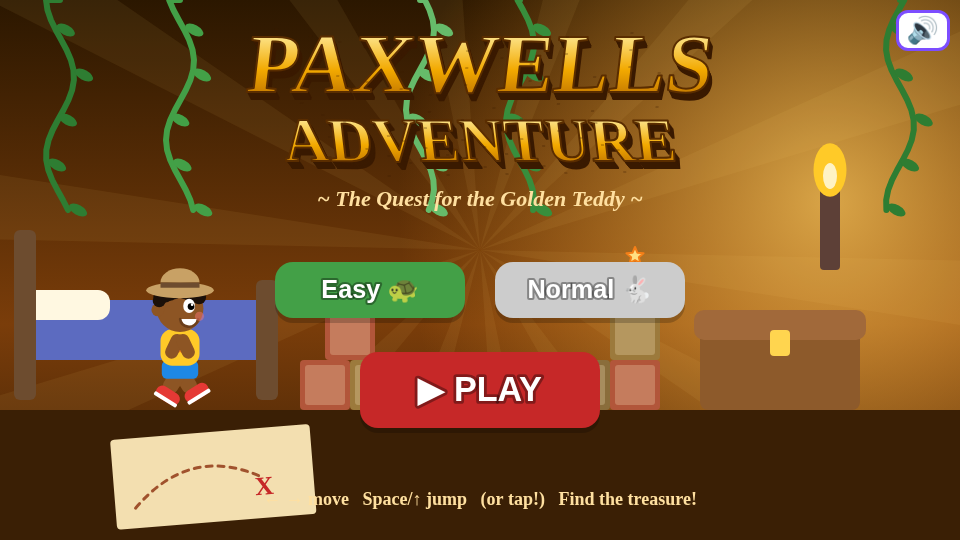
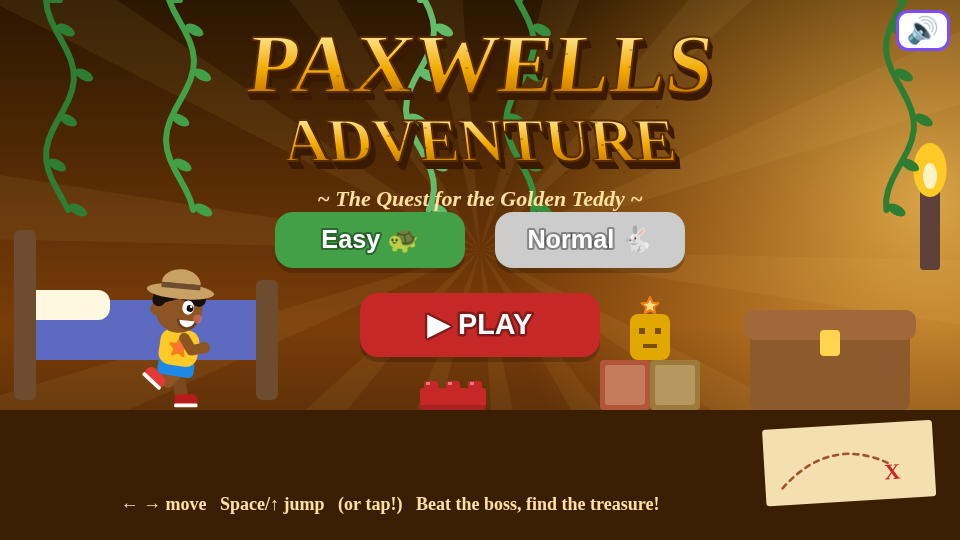
Natural run cycle, harder levels, 4 boss fights, title layout fix

diff --git a/index.html b/index.html
@@ -30,39 +30,75 @@ function cpos(e){const r=C.getBoundingClientRect(),p=e.touches?e.touches[0]:e;re
 C.addEventListener('mousedown',e=>{const[x,y]=cpos(e);clickAt(x,y)});C.addEventListener('touchstart',e=>{e.preventDefault();const[x,y]=cpos(e);clickAt(x,y)},{passive:false});
 // ---- state
 let state='title',diff='easy',P,obs,items,parts,camX,score,dist,lives,level,inv,t=0,best=+localStorage.lj_best||0,msg=0,spawnX;
-const D={easy:{lives:5,spd:.7,gap:1.4},normal:{lives:3,spd:1,gap:1}};
-function clickAt(x,y){ac();startMusic();if(state=='title'){if(y>260&&y<320){if(x<W/2)diff='easy';else diff='normal';sfx.collect();return}if(y>350&&y<430&&x>W/2-120&&x<W/2+120)start()}else if(state=='over'){if(y>330&&y<420)start()}else if(state=='play')jumpPress(true)}
-function start(){state='play';P={x:120,y:G-70,vx:0,vy:0,w:40,h:70,on:true,face:1,anim:0,coy:0,buf:0};obs=[];items=[];parts=[];camX=0;score=0;dist=0;lives=D[diff].lives;level=1;inv=60;spawnX=700;msg=120;endX=120+150*40;tre=null;treT=0;placeT();}
-let endX=0,tre=null,treT=0;
-function placeT(){const k=level%2?'bear':'jar';for(let i=0;i<2;i++)obs.push({k:'block',x:endX,y:G-50*(i+1),w:50,h:50,c:BC[(level+i)%6],l:'AB'[i],solid:1,ped:1});tre={x:endX+25,y:G-100,k};}
+const D={easy:{lives:5,spd:.9,gap:1.05,boss:.8,hp:3},normal:{lives:3,spd:1.3,gap:.8,boss:1.05,hp:4}};
+function clickAt(x,y){ac();startMusic();if(state=='title'){if(y>212&&y<268){if(x<W/2)diff='easy';else diff='normal';sfx.collect();return}if(y>290&&y<360&&x>W/2-120&&x<W/2+120)start()}else if(state=='over'){if(y>330&&y<420)start()}else if(state=='play')jumpPress(true)}
+function start(){state='play';P={x:120,y:G-70,vx:0,vy:0,w:40,h:70,on:true,face:1,anim:0,coy:0,buf:0};obs=[];items=[];parts=[];camX=0;score=0;dist=0;lives=D[diff].lives;level=1;inv=60;spawnX=700;msg=120;endX=120+150*40;tre=null;treT=0;shots=[];B=null;placeT();}
+let endX=0,tre=null,treT=0,arenaX=0,cage=true,B=null,shots=[],bossMsg=0,shake=0;
+const BOSS=[{typ:'car',name:'Turbo Racer',w:130,h:62},{typ:'bear',name:'Big Bertie Bear',w:120,h:130},{typ:'army',name:'Sergeant Greenboots',w:64,h:118},{typ:'hero',name:'Captain Cape-Tastic',w:70,h:100}];
+function poof(x,y){for(let i=0;i<8;i++)parts.push({x,y,vx:Math.random()*6-3,vy:-Math.random()*4,l:25,c:'#fff',s:'✦'})}
+function placeT(){arenaX=endX-760;cage=true;B=null;const k=level%2?'bear':'jar';for(let i=0;i<2;i++)obs.push({k:'block',x:endX,y:G-50*(i+1),w:50,h:50,c:BC[(level+i)%6],l:'AB'[i],solid:1,ped:1});tre={x:endX+25,y:G-100,k};}
 function jumpPress(tap){if(state!='play')return;P.buf=8;if(tap)P.tap=1}
 const BC=['#e53935','#1e88e5','#fdd835','#43a047','#fb8c00','#8e24aa'];
-function spawn(){const d=D[diff],lv=Math.min(level,6);while(spawnX<camX+W+300){if(spawnX>endX-350&&spawnX<endX+250){spawnX=endX+250;continue}const r=Math.random();let x=spawnX;
- if(r<.35){obs.push({k:'lego',x,y:G-22,w:44+(Math.random()*2|0)*22,h:22,c:BC[Math.random()*6|0]})}
- else if(r<.6){const n=1+(Math.random()*Math.min(lv,3)|0);for(let i=0;i<n;i++)obs.push({k:'block',x,y:G-50*(i+1),w:50,h:50,c:BC[(Math.random()*6)|0],l:'ABCDEFGHIJ'[Math.random()*10|0],solid:1});
-   items.push({x:x+25,y:G-50*n-50,got:0})}
- else if(r<.75&&level>=2){obs.push({k:Math.random()<.5?'car':'ball',x:x+200,y:G-30,w:50,h:30,vx:-(1.2+lv*.3)*d.spd,c:BC[Math.random()*6|0],rot:0})}
+function spawn(){const d=D[diff],lv=Math.min(level,6);while(spawnX<camX+W+300){if(cage&&spawnX>arenaX-320)return;if(spawnX<endX+250&&spawnX>arenaX-320)spawnX=endX+250;const r=Math.random();let x=spawnX,ext=0;
+ if(r<.26){obs.push({k:'lego',x,y:G-22,w:44+(Math.random()*2|0)*22,h:22,c:BC[Math.random()*6|0]});if(Math.random()<.45){obs.push({k:'lego',x:x+150,y:G-22,w:44,h:22,c:BC[Math.random()*6|0]});ext=150}}
+ else if(r<.46){const n=1+(Math.random()*Math.min(lv+1,3)|0);for(let i=0;i<n;i++)obs.push({k:'block',x,y:G-50*(i+1),w:50,h:50,c:BC[(Math.random()*6)|0],l:'ABCDEFGHIJ'[Math.random()*10|0],solid:1});
+   items.push({x:x+25,y:G-50*n-50,got:0});if(Math.random()<.5){obs.push({k:'lego',x:x+105,y:G-22,w:44,h:22,c:BC[Math.random()*6|0]});ext=110}}
+ else if(r<.62){obs.push({k:'car',x:x+260,y:G-30,w:50,h:30,vx:-(2+lv*.35)*d.spd*(.8+Math.random()*.4),c:BC[Math.random()*6|0],rot:0})}
+ else if(r<.74){obs.push({k:'ball',x:x+220,y:G-140,w:46,h:44,vx:-(1.4+lv*.25)*d.spd,vy:0,bounce:1,c:BC[0],rot:0})}
+ else if(r<.86){obs.push({k:'mouse',x,x0:x,y:G-28,w:46,h:28,vx:-(1.3+lv*.2)*d.spd,patrol:1,rot:0})}
  else{for(let i=0;i<3;i++)items.push({x:x+i*45,y:G-110-Math.sin(i/2*Math.PI)*40,got:0})}
- spawnX+= (260+Math.random()*220)*d.gap - Math.min(lv,6)*10}}
+ spawnX+= ext+(210+Math.random()*190)*d.gap - lv*8}}
+function startBoss(){const bd=BOSS[(level-1)%4],hp=D[diff].hp+(level>4?1:0);B=Object.assign({},bd,{x:arenaX+640,y:G-bd.h,hp,max:hp,st:'idle',tm:80,vx:0,vy:0,dir:-1,ko:0,cnt:0,fl:0});if(B.typ=='hero')B.y=110;bossMsg=160;obs=obs.filter(o=>!o.vx);sfx.level()}
+function updBoss(){const b=B;if(b.dead)return;if(b.fl>0)b.fl--;
+ if(b.ko){b.ko++;b.y+=b.vy;b.vy+=.35;b.x+=b.vx;if(b.ko%4==0)parts.push({x:b.x+b.w/2,y:b.y+20,vx:Math.random()*6-3,vy:-Math.random()*5,l:30,c:'#ffeb3b',s:'★'});if(b.ko>110){b.dead=1;cage=false;sfx.treasure();for(let i=0;i<20;i++)parts.push({x:tre.x,y:tre.y-30,vx:Math.random()*8-4,vy:-Math.random()*6,l:40,c:'#ffd600',s:'✦'})}return}
+ const f=(1+(b.max-b.hp)/b.max*.9)*D[diff].boss,px=P.x+20,cx=b.x+b.w/2;b.tm-=f;
+ if(b.st=='idle'){b.dir=px<cx?-1:1;
+  if(b.typ=='army')b.x+=b.dir*1.3*f;
+  if(b.typ=='hero'){b.y+=(110+Math.sin(t/15)*25-b.y)*.1;b.x+=(px-cx)*.012*f}
+  if(b.tm<=0){b.st='tele';b.tm=55}}
+ else if(b.st=='tele'){if(b.typ=='car'&&t%4==0)parts.push({x:b.dir<0?b.x+b.w:b.x,y:G-15,vx:-b.dir*2,vy:-1,l:20,c:'#9e9e9e',s:'●'});
+  if(b.tm<=0){b.st='atk';b.cnt=0;
+   if(b.typ=='car'){b.vx=b.dir*8.5*f;sfx.ouch()}
+   if(b.typ=='bear'){b.vy=-15;b.vx=(px-cx)/58}
+   if(b.typ=='army'){b.tm=70;b.fired=0}
+   if(b.typ=='hero'){const tt=40/f;b.vx=(px-cx)/tt;b.vy=(G-b.h-b.y)/tt}}}
+ else if(b.st=='atk'){
+  if(b.typ=='car'){b.x+=b.vx;if(b.x<arenaX+5||b.x+b.w>arenaX+W-5){b.x=Math.max(arenaX+5,Math.min(b.x,arenaX+W-5-b.w));b.st='tired';b.tm=120;shake=15;sfx.ouch()}}
+  if(b.typ=='bear'){b.vy+=.6;b.x+=b.vx;b.y+=b.vy;if(b.y+b.h>=G&&b.vy>0){b.y=G-b.h;shake=12;sfx.ouch();for(const s of[-1,1])shots.push({k:'wave',x:cx+s*60,y:G-14,vx:s*4.5*f,vy:0,r:14});for(let i=0;i<2;i++)shots.push({k:'puff',x:cx,y:b.y,vx:(i?1:-1)*(2+Math.random()*2)*f,vy:-9,r:12});b.cnt++;if(b.cnt<(b.hp<=b.max/2?3:2)){b.vy=-14;b.vx=(px-cx)/56}else{b.st='tired';b.tm=120}}}
+  if(b.typ=='army'){const fire=[60,45,30];if(b.fired<3&&b.tm<fire[b.fired]){b.fired++;shots.push({k:'pellet',x:b.dir>0?b.x+b.w:b.x,y:b.y+48,vx:b.dir*6*f,vy:0,r:8});sfx.jump();if(b.fired==2)for(let i=0;i<2;i++)shots.push({k:'para',x:px+(i?90:-90)+Math.random()*40,y:-20,vx:0,vy:1.7*f,r:14})}if(b.tm<=0){b.st='tired';b.tm=110}}
+  if(b.typ=='hero'){b.x+=b.vx;b.y+=b.vy;if(b.y+b.h>=G){b.y=G-b.h;b.st='tired';b.tm=110;shake=10;for(const s of[-1,1])shots.push({k:'wave',x:cx+s*40,y:G-14,vx:s*3.5*f,vy:0,r:12})}}}
+ else if(b.st=='tired'){if(b.tm<=0){b.st=b.typ=='hero'?'up':'idle';b.tm=70}}
+ else if(b.st=='up'){b.y-=4;if(b.y<=110){b.st='idle';b.tm=60}}
+ b.x=Math.max(arenaX,Math.min(b.x,arenaX+W-b.w));
+ const hb={x:b.x+6,y:b.y+4,w:b.w-12,h:b.h-4};
+ if(hit(P,hb,4)){const top=P.vy>0&&P.y+P.h<b.y+32;
+  if(top&&b.st=='tired'){b.hp--;b.fl=20;P.vy=-12;score+=25;sfx.collect();tone(200,.25,'square',.12,90);poof(px,b.y);inv=Math.max(inv,30);b.st=b.typ=='hero'?'up':'idle';b.tm=70;if(b.typ=='car'){b.vx=0}
+   if(b.hp<=0){b.ko=1;b.vy=-10;b.vx=(cx<arenaX+W/2?-1:1)*2;score+=100;sfx.level();shots=[]}}
+  else if(top){P.vy=-10;tone(500,.1,'sine',.1,300)}
+  else if(b.st!='tired'){hurt();P.x+=px<cx?-50:50}}}
+function updShots(){for(const s of shots){s.x+=s.vx;s.y+=s.vy;if(s.k=='puff'){s.vy+=.35;if(s.y>G-s.r)s.dead=1}if(s.k=='para'){s.x+=Math.sin(t/12+s.y)*.6;if(s.y>G-s.r)s.dead=1}
+  if(s.x<camX-40||s.x>camX+W+40)s.dead=1;if(!s.dead&&hit(P,{x:s.x-s.r,y:s.y-s.r,w:s.r*2,h:s.r*2},5)){s.dead=1;hurt()}}shots=shots.filter(s=>!s.dead)}
 function hit(a,b,s=8){return a.x+s<b.x+b.w-s&&a.x+a.w-s>b.x+s&&a.y+s<b.y+b.h&&a.y+a.h>b.y+s}
-function hurt(){if(inv>0)return;lives--;inv=120;sfx.ouch();P.vy=-8;for(let i=0;i<10;i++)parts.push({x:P.x+20,y:P.y+30,vx:Math.random()*6-3,vy:-Math.random()*5,l:30,c:'#ff5252',s:'!'});if(lives<=0){state='over';sfx.over();best=Math.max(best,score);localStorage.lj_best=best}}
+function hurt(){if(inv>0)return;lives--;inv=100;sfx.ouch();P.vy=-8;for(let i=0;i<10;i++)parts.push({x:P.x+20,y:P.y+30,vx:Math.random()*6-3,vy:-Math.random()*5,l:30,c:'#ff5252',s:'!'});if(lives<=0){state='over';sfx.over();best=Math.max(best,score);localStorage.lj_best=best}}
 function update(){t++;if(state!='play')return;const d=D[diff];
  const L=K.ArrowLeft||K.KeyA||TL,R=K.ArrowRight||K.KeyD||TR;const spd=4.2;
  P.vx=R?spd:L?-spd*.9:P.vx*.8;if(R)P.face=1;if(L)P.face=-1;
  // gentle auto-walk via tap on mobile is not forced; kids can just hold right
- P.vy+=.55;if(P.vy>0&&!(K.Space||K.ArrowUp||jumpHeld))P.vy+=.15;P.coy=P.on?8:P.coy-1;
- if(P.buf>0&&P.coy>0){P.vy=-12.5;P.on=false;P.coy=0;P.buf=0;sfx.jump();if(P.tap&&!R&&!L)P.vx=0}P.buf--;P.tap=0;
+ P.vy+=.55;if(P.vy>0&&!(K.Space||K.ArrowUp||jumpHeld))P.vy+=.15;P.coy=P.on?6:P.coy-1;const vy0=P.vy,was=P.on;P.sq=(P.sq||0)*.8;
+ if(P.buf>0&&P.coy>0){P.vy=-12.5;P.on=false;P.coy=0;P.buf=0;sfx.jump();P.sq=-.16;if(P.tap&&!R&&!L)P.vx=0}P.buf--;P.tap=0;
  P.x+=P.vx;P.x=Math.max(camX,P.x);
  for(const o of obs)if(o.solid&&hit(P,o,2)){if(P.vx>0)P.x=o.x-P.w+2;else if(P.vx<0)P.x=o.x+o.w-2}
  P.y+=P.vy;P.on=false;if(P.y+P.h>=G){P.y=G-P.h;P.vy=0;P.on=true}
  for(const o of obs)if(o.solid&&P.x+P.w-4>o.x&&P.x+4<o.x+o.w){if(P.vy>=0&&P.y+P.h>o.y&&P.y+P.h-P.vy<=o.y+12){P.y=o.y-P.h;P.vy=0;P.on=true}else if(P.vy<0&&P.y<o.y+o.h&&P.y>o.y+o.h-16){P.y=o.y+o.h;P.vy=0}}
- if(P.on&&Math.abs(P.vx)>.5)P.anim+=.25;
- camX=Math.max(camX,P.x-300);dist=Math.max(dist,(P.x-120)/40|0);
- if(treT>0){treT--;if(t%3==0)parts.push({x:tre.x+Math.random()*80-40,y:tre.y-Math.random()*60,vx:Math.random()*4-2,vy:-Math.random()*3,l:40,c:'#ffd600',s:'✦'});if(treT==0){level++;msg=120;endX=tre.x+150*40;placeT()}}
- else if(tre&&Math.abs(P.x+20-tre.x)<55&&Math.abs(P.y+35-(tre.y-25))<110){treT=150;score+=50;sfx.treasure();obs=obs.filter(o=>!(o.vx&&o.x>P.x))}
+ if(!was&&P.on&&vy0>5)P.sq=.2;if(P.on&&Math.abs(P.vx)>.5)P.anim+=.3;
+ if(B&&!B.dead){camX+=(arenaX-camX)*.12;P.x=Math.min(P.x,arenaX+W-P.w);P.x=Math.max(P.x,arenaX)}else camX=Math.max(camX,P.x-300);
+ if(cage&&!B&&P.x>arenaX+60)startBoss();if(B)updBoss();updShots();if(shake>0)shake--;if(bossMsg>0)bossMsg--;dist=Math.max(dist,(P.x-120)/40|0);
+ if(treT>0){treT--;if(t%3==0)parts.push({x:tre.x+Math.random()*80-40,y:tre.y-Math.random()*60,vx:Math.random()*4-2,vy:-Math.random()*3,l:40,c:'#ffd600',s:'✦'});if(treT==0){level++;msg=120;endX=tre.x+150*40;placeT();spawnX=Math.max(spawnX,camX+W)}}
+ else if(tre&&!cage&&Math.abs(P.x+20-tre.x)<55&&Math.abs(P.y+35-(tre.y-25))<110){treT=150;score+=50;sfx.treasure();obs=obs.filter(o=>!(o.vx&&o.x>P.x))}
  spawn();
- for(const o of obs){if(o.vx){o.x+=o.vx;o.rot+=o.vx/15}
-  if(!o.solid&&hit(P,o,o.k=='lego'?10:8)){if(P.vy>0&&P.y+P.h<o.y+18&&o.k!='lego'){P.vy=-9;score+=5;sfx.jump()}else hurt()}}
+ for(const o of obs){if(o.vx){o.x+=o.vx;o.rot+=o.vx/15;if(o.patrol&&Math.abs(o.x-o.x0)>90){o.vx*=-1;o.x+=o.vx*2}if(o.bounce){o.vy+=.45;o.y+=o.vy;if(o.y+o.h>=G){o.y=G-o.h;o.vy=-10.5}}}
+  if(!o.solid&&!o.dead&&hit(P,o,o.k=='lego'?8:6)){if(P.vy>0&&P.y+P.h<o.y+20&&o.k!='lego'){P.vy=-9;score+=5;sfx.jump();if(o.k=='mouse'){o.dead=1;o.vx=0;poof(o.x+20,o.y)}}else hurt()}}
+ obs=obs.filter(o=>!o.dead);
  for(const it of items)if(!it.got&&Math.abs(P.x+20-it.x)<36&&Math.abs(P.y+35-it.y)<46){it.got=1;score+=10;sfx.collect();for(let i=0;i<6;i++)parts.push({x:it.x,y:it.y,vx:Math.random()*4-2,vy:-Math.random()*4,l:25,c:'#ffd600',s:'★'})}
  obs=obs.filter(o=>o.x>camX-200||o.ped);items=items.filter(i=>i.x>camX-100&&!i.got);
  for(const p of parts){p.x+=p.vx;p.y+=p.vy;p.vy+=.2;p.l--}parts=parts.filter(p=>p.l>0);
@@ -86,18 +122,40 @@ function drawTre(){if(!tre)return;const x=tre.x-camX,y=tre.y;if(x<-100||x>W+100)
  if(tre.k=='bear'){const g='#f2b705',d='#a86b00';X.fillStyle=g;for(const[a,b,r]of[[-13,-50,8],[13,-50,8],[0,-38,16],[0,-14,18],[-17,-22,7],[17,-22,7],[-10,0,8],[10,0,8]]){X.beginPath();X.arc(x+a,y+b+bob,r,0,7);X.fill()}X.fillStyle=d;X.beginPath();X.arc(x-5,y-41+bob,2,0,7);X.arc(x+5,y-41+bob,2,0,7);X.fill();X.beginPath();X.arc(x,y-33+bob,3,0,7);X.fill();star(x,y-14+bob,6,'#fff59d')}
  else{rr(x-20,y-50+bob,40,48,10,'rgba(200,240,255,.8)');rr(x-16,y-60+bob,32,12,4,'#e57373');for(const[a,b]of[[-8,-30],[8,-20],[-6,-12],[6,-38]]){X.beginPath();X.arc(x+a,y+b+bob,8,0,7);X.fillStyle='#d4a056';X.fill();X.fillStyle='#5d3a1a';X.fillRect(x+a-2,y+b+bob-2,3,3)}}
  X.globalAlpha=.5+.5*Math.sin(t/8);star(x+28,y-55,6,'#fff');X.globalAlpha=1}
-function hero(x,y,face,anim,air,scale=1){X.save();X.translate(x+20,y+70);X.scale(face*scale,scale);
- const sw=air?0:Math.sin(anim)*0.6,skin='#8d5524',dk='#6b3e1a';
- // legs
- const leg=(a,c)=>{X.save();X.translate(0,-26);X.rotate(a);rr(-6,0,12,18,4,skin);rr(-8,16,20,10,5,c);rr(-8,23,20,3,1,'#fff');X.restore()};
- if(air){leg(-.5,'#e53935');leg(.7,'#e53935')}else{leg(sw,'#e53935');leg(-sw,'#e53935')}
- // shorts
- rr(-14,-34,28,14,4,'#1e88e5');
- // body shirt
- rr(-15,-58,30,28,9,'#ffca28');star(0,-45,7,'#ff7043');
- // arms
- const arm=a=>{X.save();X.translate(0,-54);X.rotate(a);rr(-5,0,10,20,5,skin);X.restore()};
- if(air){arm(-2.6);arm(2.4)}else{arm(-sw*.8);arm(sw*.8)}
+function drawBoss(){const b=B;if(!b||b.dead)return;const x=b.x-camX+(b.st=='tele'?Math.random()*4-2:0),y=b.y;X.save();X.translate(x+b.w/2,y+b.h/2);if(b.ko)X.rotate(b.ko/6);X.scale(b.dir>0?-1:1,1);if(b.fl&&(b.fl>>1)%2)X.globalAlpha=.4;const w=b.w,h=b.h,L=-w/2,T=-h/2;
+ const eyes=(ex,ey,d=12)=>{for(const o of[0,d]){X.fillStyle='#fff';X.beginPath();X.arc(ex+o,ey,6,0,7);X.fill();X.fillStyle='#000';X.beginPath();X.arc(ex+o-2,ey+1,3,0,7);X.fill()}X.strokeStyle='#000';X.lineWidth=3;X.beginPath();X.moveTo(ex-6,ey-10);X.lineTo(ex+4,ey-6);X.moveTo(ex+d+6,ey-10);X.lineTo(ex+d-4,ey-6);X.stroke()};
+ if(b.typ=='car'){rr(L,T+18,w,36,14,'#e53935');rr(L+30,T,60,26,10,'#c62828');rr(L+36,T+4,48,16,6,'#bbdefb');rr(w/2-14,T-6,12,24,3,'#212121');rr(w/2-24,T-8,30,6,2,'#212121');X.fillStyle='#fff';X.beginPath();X.arc(10,T+36,11,0,7);X.fill();X.fillStyle='#000';X.font='bold 14px sans-serif';X.textAlign='center';X.textBaseline='middle';X.fillText('7',10,T+37);eyes(L+42,T+12,20);
+  for(const wx of[L+24,w/2-24]){X.save();X.translate(wx,h/2-8);X.rotate(b.x/12);X.beginPath();X.arc(0,0,15,0,7);X.fillStyle='#212121';X.fill();X.fillStyle='#bdbdbd';X.fillRect(-3,-11,6,22);X.restore()}}
+ if(b.typ=='bear'){const c='#a1662f',lc='#e6b98a';X.fillStyle=c;for(const[a,q,r]of[[-30,-48,14],[30,-48,14],[0,-30,32],[0,22,46],[-48,10,14],[48,10,14],[-28,58,15],[28,58,15]]){X.beginPath();X.arc(a,q,r,0,7);X.fill()}X.fillStyle=lc;X.beginPath();X.ellipse(0,26,30,32,0,0,7);X.fill();X.beginPath();X.ellipse(0,-20,13,10,0,0,7);X.fill();X.fillStyle='#000';X.beginPath();X.arc(0,-24,5,0,7);X.fill();eyes(-14,-38,28);X.strokeStyle='#6d3b14';X.setLineDash([4,4]);X.lineWidth=2;X.beginPath();X.moveTo(0,0);X.lineTo(0,52);X.stroke();X.setLineDash([])}
+ if(b.typ=='army'){const g='#4caf50',dg='#2e7d32';rr(L-8,h/2-10,w+16,10,3,dg);rr(L+10,T+70,16,38,4,g);rr(w/2-26,T+70,16,38,4,g);rr(L+6,T+30,w-12,46,8,g);X.fillStyle=g;X.beginPath();X.arc(0,T+20,16,0,7);X.fill();X.fillStyle=dg;X.beginPath();X.ellipse(0,T+10,21,9,0,Math.PI,0);X.fill();X.fillRect(-21,T+8,42,5);eyes(-14,T+22,12);
+  const aim=b.st=='tele'||b.st=='atk';rr(L-22,T+(aim?42:52),40,9,4,dg);rr(L-28,T+(aim?40:50),10,13,4,'#ff7043');}
+ if(b.typ=='hero'){const cp='#ff7043';X.fillStyle=cp;X.beginPath();X.moveTo(-14,T+26);X.quadraticCurveTo(28+Math.sin(t/5)*8,T+60,22,h/2);X.lineTo(-6,h/2-6);X.fill();rr(-16,T+26,32,44,10,'#7c4dff');rr(-14,T+68,12,30,5,'#7c4dff');rr(2,T+68,12,30,5,'#7c4dff');rr(-16,h/2-8,14,8,3,'#ffd600');rr(2,h/2-8,14,8,3,'#ffd600');star(0,T+44,9,'#ffd600');X.fillStyle='#d9a066';X.beginPath();X.arc(0,T+14,15,0,7);X.fill();X.fillStyle='#212121';X.beginPath();X.arc(0,T+8,15,Math.PI,0);X.fill();rr(-16,T+10,32,9,4,'#7c4dff');eyes(-11,T+14,12);
+  rr(-26,T+(b.st=='atk'?20:30),10,24,5,'#7c4dff')}
+ X.globalAlpha=1;X.restore();
+ if(b.st=='tele'&&!b.ko)txt('!',x+b.w/2,y-24,40,'#ff1744','#fff');
+ if(b.st=='tired'&&!b.ko){for(let i=0;i<3;i++){const a=t/8+i*2.1;star(x+b.w/2+Math.cos(a)*28,y-14+Math.sin(a)*8,7,'#ffeb3b')}txt('Stomp!',x+b.w/2,y-38,18,'#fff','#2e7d32')}
+ if(!b.ko){rr(W/2-160,72,320,34,10,'rgba(0,0,0,.55)');X.font='bold 14px "Comic Sans MS",sans-serif';X.textAlign='center';X.fillStyle='#fff';X.fillText(b.name,W/2,84);rr(W/2-150,92,300,10,5,'#555');rr(W/2-150,92,300*b.hp/b.max,10,5,'#ff5252')}}
+function drawShots(){for(const s of shots){const x=s.x-camX;if(s.k=='wave'){X.fillStyle='rgba(255,255,255,.85)';X.beginPath();X.ellipse(x,G-8,s.r+6,s.r,0,Math.PI,0);X.fill();X.strokeStyle='#90caf9';X.lineWidth=3;X.stroke()}
+ else if(s.k=='puff'){X.fillStyle='#fff';for(const[a,q]of[[-6,0],[6,0],[0,-6]]){X.beginPath();X.arc(x+a,s.y+q,8,0,7);X.fill()}}
+ else if(s.k=='pellet'){rr(x-10,s.y-6,20,12,6,'#ff7043');rr(x+4*Math.sign(s.vx),s.y-6,6,12,3,'#ffd54f')}
+ else{X.fillStyle='#e0e0e0';X.beginPath();X.arc(x,s.y-24,20,Math.PI,0);X.fill();X.strokeStyle='#999';X.lineWidth=1;X.beginPath();X.moveTo(x-20,s.y-24);X.lineTo(x,s.y);X.lineTo(x+20,s.y-24);X.stroke();rr(x-7,s.y-6,14,16,4,'#4caf50')}}}
+function drawCage(){if(!tre||!cage)return;const x=tre.x-camX;if(x<-100||x>W+100)return;X.strokeStyle='#757575';X.lineWidth=5;for(let i=-30;i<=30;i+=12){X.beginPath();X.moveTo(x+i,tre.y-75);X.lineTo(x+i,tre.y+4);X.stroke()}rr(x-36,tre.y-80,72,8,4,'#616161');rr(x-10,tre.y-36,20,18,4,'#ffc107')}
+function mouse(o){const x=o.x-camX,y=o.y;X.save();X.translate(x+23,y);X.scale(o.vx>0?-1:1,1);X.fillStyle='#9e9e9e';X.beginPath();X.ellipse(0,16,22,13,0,0,7);X.fill();X.beginPath();X.arc(-14,6,7,0,7);X.fill();X.fillStyle='#f8bbd0';X.beginPath();X.arc(-14,6,4,0,7);X.fill();X.fillStyle='#000';X.beginPath();X.arc(-17,15,2.5,0,7);X.fill();X.strokeStyle='#ffc107';X.lineWidth=4;X.beginPath();X.moveTo(8,4);X.lineTo(8,-4+Math.sin(t/4)*3);X.stroke();X.beginPath();X.arc(8,-8,5,0,7);X.stroke();X.strokeStyle='#757575';X.lineWidth=2;X.beginPath();X.moveTo(22,18);X.quadraticCurveTo(32,10,30,24);X.stroke();X.restore()}
+function hero(x,y,face,ph,air,scale=1,vy=0,sq=0,moving=1){X.save();X.translate(x+20,y+70);X.scale(face*scale,scale);X.scale(1+sq,1-sq);
+ const skin='#8d5524',dk='#6b3e1a',skB='#7a4920';let bob=0,lean=0,hb=0,L1,L2,A1,A2;
+ if(air){if(vy<0){L1=[-0.35,-0.5];L2=[1.0,-1.7];A1=[-2.5,0.4];A2=[2.6,0.3]}else{L1=[-0.15,-0.7];L2=[0.45,-0.9];A1=[-1.7,0.6];A2=[1.6,0.6]}lean=0.06}
+ else if(moving){const leg=p=>[0.85*Math.sin(p),-(0.3+1.35*Math.max(0,Math.cos(p)))];L1=leg(ph+Math.PI);L2=leg(ph);A1=[0.95*Math.sin(ph),1.25];A2=[0.95*Math.sin(ph+Math.PI),1.25];bob=-3.5*Math.abs(Math.cos(ph));hb=Math.sin(ph*2)*1.2;lean=0.15}
+ else{const br=Math.sin(t/22);L1=[-0.1,-0.06];L2=[0.1,-0.06];A1=[0.12+0.04*br,0.45];A2=[-0.12-0.04*br,0.55];bob=br*1.1;hb=br*.6}
+ const limb=(x0,y0,a,l1,l2,w,col,end)=>{const kx=x0+Math.sin(a[0])*l1,ky=y0+Math.cos(a[0])*l1,bb=a[0]+a[1],fx=kx+Math.sin(bb)*l2,fy=ky+Math.cos(bb)*l2;X.strokeStyle=col;X.lineWidth=w;X.lineCap='round';X.lineJoin='round';X.beginPath();X.moveTo(x0,y0);X.lineTo(kx,ky);X.lineTo(fx,fy);X.stroke();end&&end(fx,fy,bb)};
+ const shoe=c=>(fx,fy,bb)=>{X.save();X.translate(fx,fy);X.rotate(Math.max(-.6,Math.min(.6,-(bb)*.5)));rr(-6,-4,18,9,4,c);rr(-6,3,18,3,1,'#fff');X.restore()};
+ const hand=c=>(fx,fy)=>{X.beginPath();X.arc(fx,fy,4.5,0,7);X.fillStyle=c;X.fill()};
+ X.translate(0,bob);X.rotate(lean);
+ limb(-3,-54,A1,11,10,8,skB,hand(skB));
+ limb(-3,-30,L1,13,13,10,skB,shoe('#b71c1c'));
+ limb(3,-30,L2,13,13,10,skin,shoe('#e53935'));
+ rr(-14,-37,28,13,4,'#1e88e5');
+ rr(-15,-60,30,28,9,'#ffca28');star(0,-46,7,'#ff7043');
+ X.save();X.translate(0,hb);X.rotate(-lean*.4);
  // head
  X.beginPath();X.arc(0,-74,18,0,7);X.fillStyle=skin;X.fill();
  X.beginPath();X.arc(-17,-73,5,0,7);X.fill();
@@ -108,47 +166,50 @@ function hero(x,y,face,anim,air,scale=1){X.save();X.translate(x+20,y+70);X.scale
  X.fillStyle='#fff';X.beginPath();X.ellipse(7,-76,4.5,5.5,0,0,7);X.fill();X.fillStyle='#000';X.beginPath();X.arc(8.5,-75.5,2.6,0,7);X.fill();X.fillStyle='#fff';X.beginPath();X.arc(9.3,-77,1,0,7);X.fill();
  X.beginPath();X.arc(7,-67,7,0.15,Math.PI-.15);X.fillStyle='#fff';X.fill();X.strokeStyle=dk;X.lineWidth=2;X.stroke();
  X.fillStyle='rgba(255,120,120,.45)';X.beginPath();X.arc(15,-68,3.5,0,7);X.fill();
+ X.restore();
+ limb(3,-54,A2,11,10,8,skin,hand(skin));
  X.restore()}
 function txt(s,x,y,sz,c='#fff',st='#5d2fa0'){X.font=`bold ${sz}px "Comic Sans MS","Trebuchet MS",sans-serif`;X.textAlign='center';X.textBaseline='middle';X.lineWidth=sz/6;X.lineJoin="round";X.strokeStyle=st;X.strokeText(s,x,y);X.fillStyle=c;X.fillText(s,x,y)}
 function button(s,x,y,w,h,c,sel=true){rr(x-w/2,y-h/2+5,w,h,18,'rgba(0,0,0,.2)');rr(x-w/2,y-h/2,w,h,18,sel?c:'#ccc');txt(s,x,y,h*.45,'#fff','rgba(0,0,0,.35)')}
 function titleScreen(){const g=X.createLinearGradient(0,0,0,H);g.addColorStop(0,'#2b1700');g.addColorStop(.6,'#7a3d0a');g.addColorStop(1,'#3a1f05');X.fillStyle=g;X.fillRect(0,0,W,H);
- const fl=.85+.15*Math.sin(t/7)+Math.random()*.05,tg=X.createRadialGradient(830,200,10,830,200,420*fl);tg.addColorStop(0,'rgba(255,200,90,.75)');tg.addColorStop(1,'rgba(255,160,40,0)');X.fillStyle=tg;X.fillRect(0,0,W,H);
+ const fl=.85+.15*Math.sin(t/7)+Math.random()*.05,tg=X.createRadialGradient(930,200,10,930,200,420*fl);tg.addColorStop(0,'rgba(255,200,90,.75)');tg.addColorStop(1,'rgba(255,160,40,0)');X.fillStyle=tg;X.fillRect(0,0,W,H);
  for(let i=0;i<14;i++){X.save();X.translate(480,250);X.rotate(i*Math.PI/7+t/600);X.fillStyle='rgba(255,210,120,.07)';X.beginPath();X.moveTo(0,0);X.lineTo(900,-60);X.lineTo(900,60);X.fill();X.restore()}
  // bed
  rr(20,300,250,60,10,'#5c6bc0');rr(20,290,90,30,12,'#fff8e1');rr(14,230,22,170,6,'#6d4c2f');rr(256,280,22,120,6,'#6d4c2f');
  // toy chest
- rr(700,330,160,80,8,'#8d5a2b');rr(694,310,172,30,10,'#a1693a');rr(770,330,20,26,4,'#ffd54f');
+ rr(750,330,160,80,8,'#8d5a2b');rr(744,310,172,30,10,'#a1693a');rr(820,330,20,26,4,'#ffd54f');
  // nightlight torch
- rr(820,180,20,90,4,'#5d4037');X.fillStyle='#ffca28';X.beginPath();X.ellipse(830,170,16*fl,26*fl,0,0,7);X.fill();X.fillStyle='#fff3c4';X.beginPath();X.ellipse(830,176,7,13,0,0,7);X.fill();
+ rr(920,180,20,90,4,'#5d4037');X.fillStyle='#ffca28';X.beginPath();X.ellipse(930,170,16*fl,26*fl,0,0,7);X.fill();X.fillStyle='#fff3c4';X.beginPath();X.ellipse(930,176,7,13,0,0,7);X.fill();
  // block ruins
- X.fillStyle='#3a1f05';X.fillRect(0,410,W,130);for(const[x,y,c]of[[300,360,'#b2563a'],[350,360,'#9c7a3c'],[325,310,'#b2563a'],[560,360,'#8a6d3b'],[610,360,'#b2563a'],[610,310,'#9c7a3c']]){rr(x,y,50,50,4,c);rr(x+5,y+5,40,40,3,'rgba(255,240,200,.25)')}
+ X.fillStyle='#3a1f05';X.fillRect(0,410,W,130);for(const[x,y,c]of[[600,360,'#b2563a'],[650,360,'#9c7a3c']]){rr(x,y,50,50,4,c);rr(x+5,y+5,40,40,3,'rgba(255,240,200,.25)')}
  lego({x:camX+420,y:388,w:66,h:22,c:'#c62828'});
  // idol on ruins
- rr(615,262,40,48,8,'#e0a800');X.fillStyle='#7a4f00';X.fillRect(624,276,6,6);X.fillRect(640,276,6,6);X.fillRect(628,292,14,4);star(635,256,9,'#ffe082');
+ rr(630,314,40,46,8,'#e0a800');X.fillStyle='#7a4f00';X.fillRect(639,328,6,6);X.fillRect(655,328,6,6);X.fillRect(643,344,14,4);star(650,306,9,'#ffe082');
  // crayon vines
  X.lineCap='round';for(const[x,c]of[[60,'#2e7d32'],[180,'#43a047'],[420,'#66bb6a'],[900,'#2e7d32'],[520,'#388e3c']]){X.strokeStyle=c;X.lineWidth=6;X.beginPath();X.moveTo(x,0);for(let y=0;y<220;y+=10)X.lineTo(x+Math.sin(y/25+x+t/40)*14,y);X.stroke();for(let y=30;y<220;y+=45){X.fillStyle=c;X.beginPath();X.ellipse(x+Math.sin(y/25+x+t/40)*14+10,y,10,5,.5,0,7);X.fill()}}
  // treasure map
- X.save();X.translate(110,440);X.rotate(-.08);rr(0,0,200,90,4,'#f3dfb0');X.strokeStyle='#a0522d';X.setLineDash([6,6]);X.lineWidth=3;X.beginPath();X.moveTo(20,70);X.quadraticCurveTo(80,10,150,50);X.stroke();X.setLineDash([]);X.fillStyle='#c62828';X.font='bold 26px Georgia';X.fillText('X',150,60);X.restore();
+ X.save();X.translate(762,430);X.rotate(-.06);X.scale(.85,.85);rr(0,0,200,90,4,'#f3dfb0');X.strokeStyle='#a0522d';X.setLineDash([6,6]);X.lineWidth=3;X.beginPath();X.moveTo(20,70);X.quadraticCurveTo(80,10,150,50);X.stroke();X.setLineDash([]);X.fillStyle='#c62828';X.font='bold 26px Georgia';X.fillText('X',150,60);X.restore();
  // title with perspective
 
  const tt=(s,y,sz,sk)=>{X.save();X.translate(480,y);X.setTransform(1,0,sk,1,480,y);X.font='900 '+sz+'px Georgia,"Times New Roman",serif';X.textAlign='center';X.textBaseline='middle';X.lineJoin='round';for(let i=8;i>0;i--){X.fillStyle='#3a1a00';X.fillText(s,i*.6,i)}const gg=X.createLinearGradient(0,-sz/2,0,sz/2);gg.addColorStop(0,'#fff1a8');gg.addColorStop(.5,'#f2a900');gg.addColorStop(1,'#a85a00');X.fillStyle=gg;X.fillText(s,0,0);X.lineWidth=2;X.strokeStyle='#5a2d00';X.strokeText(s,0,0);X.globalAlpha=.25;X.fillStyle='#3a1a00';for(let i=0;i<40;i++){X.fillRect(((i*97)%(sz*5))-sz*2.5,((i*53)%sz)-sz/2,3,2)}X.globalAlpha=1;X.restore()};
  tt('PAXWELLS',70,84,-0.12);tt('ADVENTURE',145,62,0.12);
  X.font='italic bold 22px Georgia,serif';X.textAlign='center';X.fillStyle='#ffe0a0';X.fillText('~ The Quest for the Golden Teddy ~',480,200);
- hero(160,G-90-Math.abs(Math.sin(t/15))*40,1,t/5,Math.sin(t/15)>.3,1.3);
- button('Easy 🐢',W/2-110,290,190,56,'#43a047',diff=='easy');button('Normal 🐇',W/2+110,290,190,56,'#fb8c00',diff=='normal');
- button('▶ PLAY',W/2,390,240,76,'#c62828');X.font='bold 18px Georgia';X.fillStyle='#ffe0a0';X.fillText('← → move   Space/↑ jump   (or tap!)   Find the treasure!',W/2,500);if(best)X.fillText('Best: '+best,W/2,525)}
+ hero(150,340,1,t/4.5,false,1.3,0,0,1);
+ button('Easy 🐢',W/2-110,240,190,56,'#43a047',diff=='easy');button('Normal 🐇',W/2+110,240,190,56,'#fb8c00',diff=='normal');
+ button('▶ PLAY',W/2,325,240,64,'#c62828');X.font='bold 18px Georgia';X.fillStyle='#ffe0a0';X.fillText('← → move   Space/↑ jump   (or tap!)   Beat the boss, find the treasure!',W/2-90,505);if(best)X.fillText('Best: '+best,W/2-90,528)}
 function draw(){if(state!='title')bg();
  if(state=='title'){camX+=1;titleScreen();return}
- for(const o of obs)o.k=='lego'?lego(o):o.k=='block'?block(o):car(o);
+ if(shake>0){X.save();X.translate(Math.random()*6-3,Math.random()*4-2)}
+ for(const o of obs)o.k=='lego'?lego(o):o.k=='block'?block(o):o.k=='mouse'?mouse(o):car(o);
  for(const it of items){const b=Math.sin(t/10+it.x)*4;star(it.x-camX,it.y+b,15,'#ffd600')}
- if(!(inv>0&&(t>>2)%2))hero(P.x-camX,P.y,P.face,P.anim,!P.on);
+ if(!(inv>0&&(t>>2)%2))hero(P.x-camX,P.y,P.face,P.anim,!P.on,1,P.vy,P.sq||0,Math.abs(P.vx)>.6);
  for(const p of parts){X.globalAlpha=p.l/30;txt(p.s,p.x-camX,p.y,20,p.c,'#fff');X.globalAlpha=1}
  // HUD
  rr(10,10,420,44,14,'rgba(255,255,255,.85)');X.textAlign='left';X.font='bold 22px "Comic Sans MS",sans-serif';X.fillStyle='#e53935';X.fillText('❤'.repeat(Math.max(lives,0)),22,34);X.fillStyle='#5d2fa0';X.fillText('★ '+score+'   '+dist+'m   Lv '+level,22+Math.max(lives,1)*0+130,34);
- drawTre();if(treT>0)txt('Treasure found!',W/2,200,60,'#ffd54f','#6d3b00');
- X.textAlign='left';X.font='bold 16px Georgia,serif';X.fillStyle='#8d5a00';X.fillText('Paxwells Adventure',22,70);X.fillText('Treasure: '+Math.max(0,(endX-P.x)/40|0)+'m',220,70);
+ drawTre();drawCage();drawBoss();drawShots();if(shake>0)X.restore();if(bossMsg>0){txt('BOSS!',W/2,190,52,'#ff5252','#fff');txt(B?B.name:'',W/2,245,42,'#ffeb3b','#6d3b00')}if(B&&B.dead&&cage==false&&treT==0&&tre)txt('Treasure unlocked! →',W/2,300,30,'#fff','#2e7d32');if(treT>0)txt('Treasure found!',W/2,200,60,'#ffd54f','#6d3b00');
+ X.textAlign='left';X.font='bold 16px Georgia,serif';X.fillStyle='#8d5a00';X.fillText('Paxwells Adventure',22,70);X.fillText(B&&!B.dead?'Boss fight!':'Boss & treasure: '+Math.max(0,(arenaX-P.x)/40|0)+'m',220,70);
  if(msg>0)txt('Level '+level+'!',W/2,140,56,'#ffeb3b','#e53935');
  if(state=='over'){X.fillStyle='rgba(255,255,255,.6)';X.fillRect(0,0,W,H);txt('Great try! 🎉',W/2,140,64,'#ffeb3b','#e53935');txt('Stars: '+score+'   Distance: '+dist+'m',W/2,230,32,'#fff','#1e88e5');txt('Best: '+best,W/2,280,26,'#fff','#5d4037');button('↻ Play Again',W/2,375,300,76,'#43a047')}}
 function loop(){update();draw();requestAnimationFrame(loop)}camX=0;loop();
-window.__game={get treT(){return treT},get tre(){return tre},tp(){P.x=tre.x-120;P.y=G-70},get state(){return state},start,get P(){return P},set diff(v){diff=v}};
+window.__game={get B(){return B},get lives(){return lives},toBoss(){P.x=arenaX-100;camX=P.x-300;obs=[];},cheatStomp(){if(B&&B.st=='tired'&&!B.ko){P.x=B.x+B.w/2-20;P.y=B.y-P.h-4;P.vy=6}},heal(){lives=9},get treT(){return treT},get tre(){return tre},tp(){P.x=tre.x-120;P.y=G-70},get state(){return state},start,get P(){return P},set diff(v){diff=v}};
 </script></body></html>
